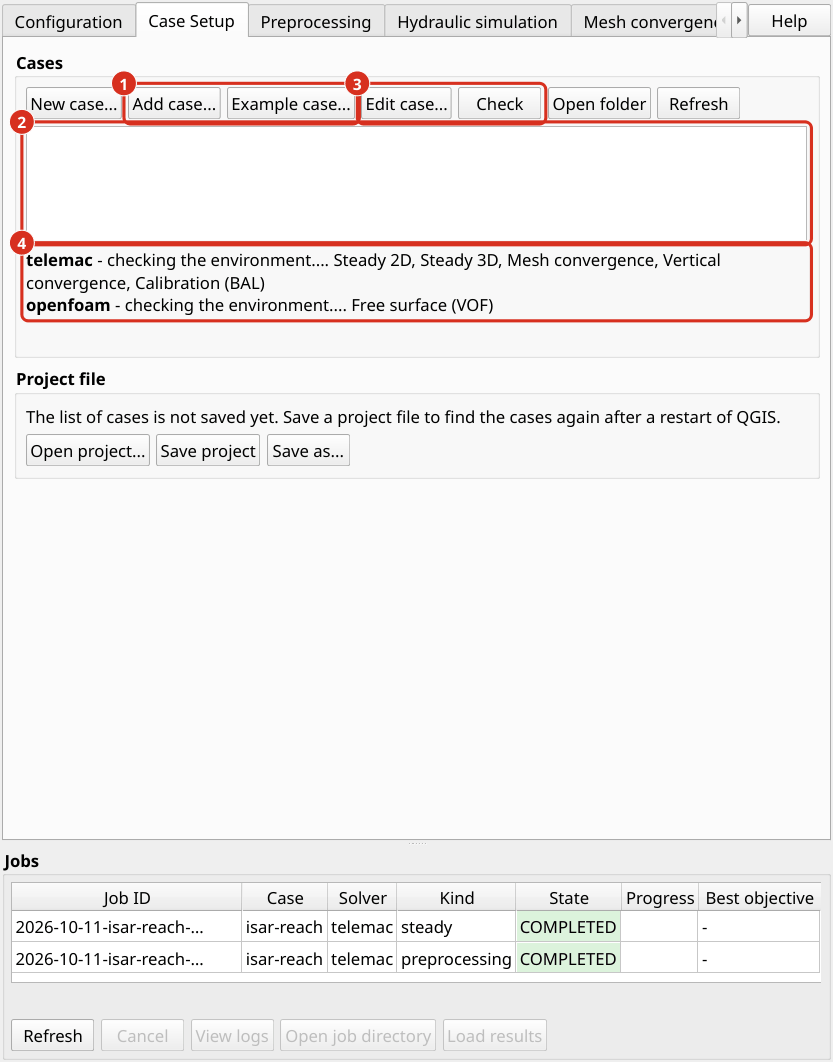
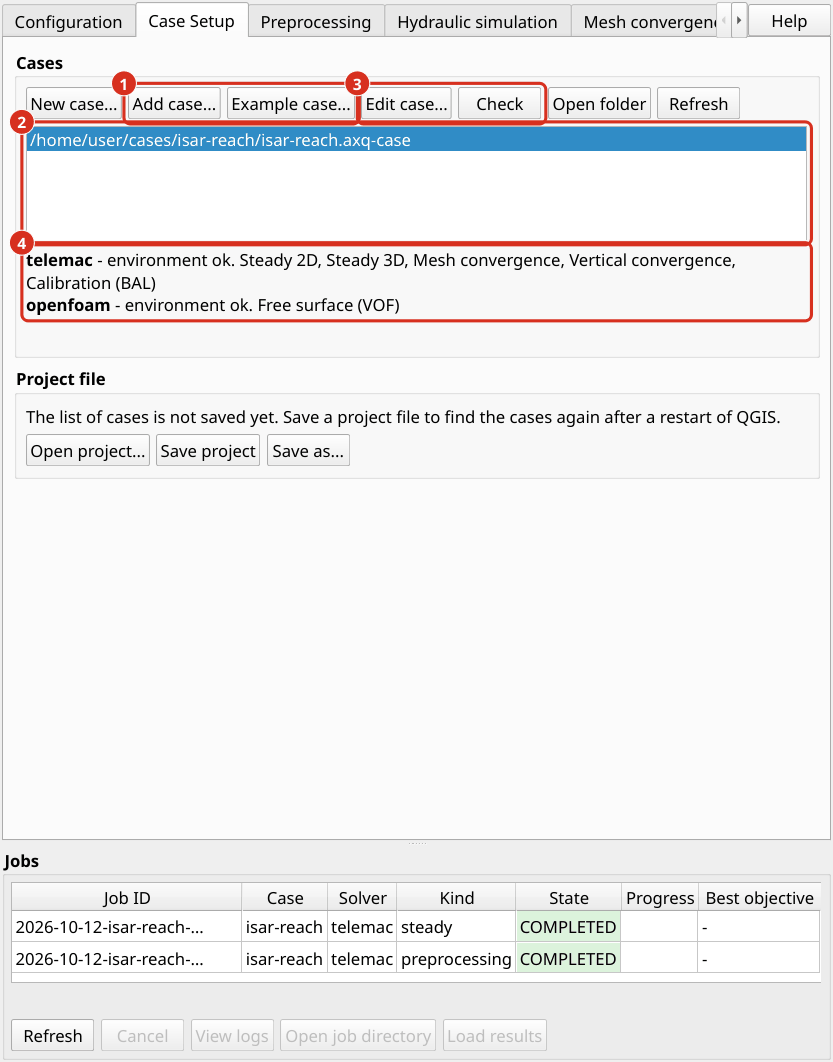
Take the pictures as the panel shows them, with made-up data
What the review of 2026-10-12 found in the pictures of the plugin
and in the script that takes them.

The picture of the Case Setup tab showed an empty list of cases and
"checking the environment...": the script added the case behind the
panel's back and did not wait for the check. The profile editor
picture showed a folder of the computer in the gray text of an empty
row, which the replacement of folders had left out. A mark whose
widget was not on the screen was dropped and the others renumbered,
so a caption could explain numbers the picture did not have. The
picture of the QGIS window needed an environment variable the
documented command does not set, and the script ended with success
whatever had failed.

The script now adds the case as "Add case..." does and waits for the
check, replaces placeholder texts too, loads the result the way "Load
results" does, fails for a figure with a mark that is not on the
screen and ends with an error then, and records the marks of each
figure in docs/img/gui-screenshots.json. The test compares that
record with the captions.

The picture of the Calibration & validation tab showed the name, a
file name and the discharges of the September campaign of the Isar,
whose positions are being corrected and of which nothing is to be
published. All pictures are taken again with made-up points on the
channel centerline of the published example and a made-up validation
situation.
[…]

Changed region(s): [[0.0312, 0.0932, 0.9676, 0.1554], [0.0312, 0.2175, 0.8739, 0.3107]]

diff --git a/scripts/build_screenshots.py b/scripts/build_screenshots.py
@@ -9,9 +9,13 @@ command when the plugin changes::
 
     python scripts/build_screenshots.py --case <folder>/<name>.axq-case
 
-The case has to be built and to have a steady result, so that the tabs show what a
-user sees while working: the job list with its jobs, the checkup table, the results.
-A case with the blocks ``calibration`` and ``openfoam`` shows those boxes filled.
+The case has to be built and to have a completed steady job, so that the tabs show
+what a user sees while working: the job list with its jobs, the checkup table, the
+results. A case with the blocks ``calibration`` and ``openfoam`` shows those boxes
+filled. The script fails, and says which figure, when a widget that a caption explains
+is not on the screen: a figure whose numbers no longer match its caption is worse than
+none. How many marks each figure has is recorded in ``gui-screenshots.json`` beside
+the figures, which a test compares with the captions.
 
 QGIS is started through ``scripts/qgis_dev.sh`` (the QGIS of the conda environment
 ``qgis-dev``) with a QGIS profile of its own in a temporary folder, so no profile of
@@ -56,11 +60,11 @@ def take_screenshots() -> None:
     out = Path(os.environ["AXQUA_SHOTS_OUT"])
     case = Path(os.environ["AXQUA_SHOTS_CASE"])
     out.mkdir(parents=True, exist_ok=True)
-    report: dict = {"figures": {}, "notes": []}
+    report: dict = {"figures": {}, "failed": {}}
 
     def save_report() -> None:
-        (out / "gui-screenshots.json").write_text(json.dumps(report, indent=1),
-                                                  encoding="utf-8")
+        (out / ".gui-screenshots-run.json").write_text(json.dumps(report, indent=1),
+                                                       encoding="utf-8")
 
     def wait(ms: int) -> None:
         loop = QEventLoop()
@@ -120,6 +124,9 @@ def take_screenshots() -> None:
                 child.setText(said(child.text()))
                 if isinstance(child, QLineEdit):
                     child.setCursorPosition(0)
+        for child in root.findChildren(QLineEdit):       # the gray text of an empty row
+            if said(child.placeholderText()) != child.placeholderText():
+                child.setPlaceholderText(said(child.placeholderText()))
         for child in root.findChildren(QPlainTextEdit):
             if said(child.toPlainText()) != child.toPlainText():
                 child.setPlainText(said(child.toPlainText()))
@@ -137,8 +144,11 @@ def take_screenshots() -> None:
         """Save a picture of *root* with the *marks* framed and numbered."""
         neutralize(root)
         wait(500)
-        marks = [mark for mark in marks if isinstance(mark, (QRect, list, tuple))
-                 or not mark.visibleRegion().isEmpty()]
+        for number, mark in enumerate(marks, start=1):
+            for widget in (mark if isinstance(mark, (list, tuple)) else [mark]):
+                if not isinstance(widget, QRect) and widget.visibleRegion().isEmpty():
+                    # the caption would explain a number the picture does not have
+                    raise LookupError(f"mark {number} of {name} is not on the screen")
         pixmap = root.grab()
         painter = QPainter(pixmap)
         painter.setRenderHint(enum_value(QPainter, "RenderHint.Antialiasing",
@@ -148,11 +158,13 @@ def take_screenshots() -> None:
         font.setPixelSize(15)
         painter.setFont(font)
         limits = pixmap.rect().adjusted(2, 2, -2, -2)
-        for number, target in enumerate(marks, start=1):
-            rect = box_of(root, target).adjusted(-4, -4, 4, 4).intersected(limits)
+        frames = [box_of(root, target).adjusted(-4, -4, 4, 4).intersected(limits)
+                  for target in marks]
+        for rect in frames:                               # all frames first ...
             painter.setPen(QPen(QColor(MARK), 3))
             painter.setBrush(QColor(0, 0, 0, 0))
             painter.drawRoundedRect(rect, 6, 6)
+        for number, rect in enumerate(frames, start=1):   # ... so no number is covered
             badge = QRect(max(rect.left() - 12, 2), max(rect.top() - 12, 2), 24, 24)
             painter.setPen(QPen(QColor("white"), 1))
             painter.setBrush(QColor(MARK))
@@ -169,7 +181,7 @@ def take_screenshots() -> None:
         try:
             action()
         except Exception:                                # noqa: BLE001
-            report["notes"].append(f"{name}: {traceback.format_exc(limit=3)}")
+            report["failed"][name] = traceback.format_exc(limit=3)
             save_report()
 
     def buttons(root, *texts):
@@ -181,12 +193,13 @@ def take_screenshots() -> None:
     dock.resize(*PANEL)
     dock.show()
     tab = dock.configuration_tab
-    until(lambda: "axqua 0." in tab.runner_label.text(), 90)
+    until(lambda: "axqua " in tab.runner_label.text(), 90)
     until(lambda: tab.profile is not None, 60)
     until(lambda: bool(tab.overview.get("targets")), 90)
-    dock.ctx.project.add_case(case)
+    dock.add_case(case)                    # as *Add case...* does: the list is filled
     dock.set_active_case(str(case))
     until(lambda: dock.ctx.case_view is not None, 90)
+    until(lambda: "checking" not in dock.case_tab.capability_label.text(), 120)
     dock.jobs_tab.refresh()
     until(lambda: dock.jobs_tab.table.rowCount() > 0, 30)
     wait(1500)
@@ -347,15 +360,16 @@ def take_screenshots() -> None:
 
     # ---- the panel in QGIS, with a result on the map -----------------------------
     def window() -> None:
-        from axqua.core import result_loader
+        from qgis.core import QgsMeshLayer, QgsProject
 
-        rows = dock.jobs_tab.table
-        root = None
-        for folder in sorted(Path(os.environ["AXQUA_JOB_ROOT"]).iterdir()):
-            if "steady" in folder.name:
-                root = folder
-        results = result_loader.discover(root)
-        layers = result_loader.ResultLoader(min_depth=0.01, velocity_cap=5.0).load(results)
+        def loaded() -> list:
+            return [layer for layer in QgsProject.instance().mapLayers().values()
+                    if isinstance(layer, QgsMeshLayer)]
+
+        dock.load_latest_results("steady")        # what *Load results* does
+        if not until(lambda: len(loaded()) >= 2, 120):
+            raise LookupError("the steady result of the case did not load")
+        layers = loaded()
         depth = next(layer for layer in layers if "velocity" not in layer.name().lower()
                      and "geometry" not in layer.name().lower())
         for layer in layers:                              # the depth alone, with lines
@@ -366,8 +380,6 @@ def take_screenshots() -> None:
         dock.show_section("postprocessing", "qgis")
         page = dock.page("postprocessing", "qgis")
         page.apply_style()
-        # what "Load results" does in the plugin: the end of the run, not its start
-        result_loader.show_last_time_step(iface.mapCanvas(), layers)
         iface.messageBar().clearWidgets()
         main = iface.mainWindow()
         dock.setFloating(False)
@@ -383,7 +395,6 @@ def take_screenshots() -> None:
         shot(main, "gui-qgis-window", [dock, canvas, page.style_button])
         canvas.grab().save(str(out / "gui-map-streamlines.png"))
         report["figures"]["gui-map-streamlines"] = 0
-        report["notes"].append(f"job rows: {rows.rowCount()}")
         save_report()
 
     for name, action in (("configuration", configuration),
@@ -440,7 +451,7 @@ def main(argv: list[str] | None = None) -> int:
         env = dict(os.environ, QGIS_CUSTOM_CONFIG_PATH=scratch, QGIS_PROFILE="shots",
                    QT_QPA_PLATFORM="offscreen", AXQUA_SHOTS_CASE=str(args.case.resolve()),
                    AXQUA_SHOTS_OUT=str(args.out.resolve()))
-        report = args.out / "gui-screenshots.json"
+        report = args.out / ".gui-screenshots-run.json"
         report.unlink(missing_ok=True)
         try:
             subprocess.run([str(repo / "scripts" / "qgis_dev.sh"), "--nologo",
@@ -453,20 +464,27 @@ def main(argv: list[str] | None = None) -> int:
         print("QGIS wrote no report; the plugin may not have loaded.", file=sys.stderr)
         return 1
     done = json.loads(report.read_text(encoding="utf-8"))
-    report.unlink()                                     # a record of the run, not a figure
-    for note in done.get("notes", []):
-        print("note:", note.strip().splitlines()[-1] if "\n" in note else note)
+    report.unlink()
+    for name, why in done.get("failed", {}).items():
+        print(f"FAILED {name}: {why.strip().splitlines()[-1]}", file=sys.stderr)
     reduce_colors(args.out, sorted(done.get("figures", {})))
+    # the marks of each figure, for the test that compares them with the captions
+    marks = args.out / "gui-screenshots.json"
+    known = json.loads(marks.read_text(encoding="utf-8")) if marks.is_file() else {}
+    known.update(done.get("figures", {}))
+    marks.write_text(json.dumps(dict(sorted(known.items())), indent=1) + "\n",
+                     encoding="utf-8")
     print(f"{len(done.get('figures', {}))} figures in {args.out}")
-    return 0 if done.get("done") else 1
+    return 0 if done.get("done") and not done.get("failed") else 1
 
 
 if inside_qgis():
     try:
         take_screenshots()
     except Exception:                                    # noqa: BLE001 - never hang QGIS
-        Path(os.environ.get("AXQUA_SHOTS_OUT", "."), "gui-screenshots.json").write_text(
-            json.dumps({"figures": {}, "notes": [traceback.format_exc()]}),
+        Path(os.environ.get("AXQUA_SHOTS_OUT", "."),
+             ".gui-screenshots-run.json").write_text(
+            json.dumps({"figures": {}, "failed": {"start": traceback.format_exc()}}),
             encoding="utf-8")
         os._exit(1)
 elif __name__ == "__main__":

diff --git a/tests/test_docs_outline.py b/tests/test_docs_outline.py
@@ -190,8 +190,12 @@ SCREENSHOTS = {
 
 def test_every_step_of_the_workflow_shows_where_it_is_set_up_in_the_plugin():
     """The pictures are taken by ``scripts/build_screenshots.py`` and numbered; the
-    caption of each explains its numbers. A picture nobody shows, or a page that lost
-    its picture, is noticed here."""
+    caption of each explains its numbers. A picture nobody shows, a page that lost its
+    picture, and a caption that explains another number of marks than its picture has
+    (the script records them in ``gui-screenshots.json``) are noticed here."""
+    import json
+
+    marks = json.loads((DOCS / "img" / "gui-screenshots.json").read_text(encoding="utf-8"))
     shown = []
     for document, names in SCREENSHOTS.items():
         text = (DOCS / f"{document}.rst").read_text(encoding="utf-8")
@@ -204,11 +208,12 @@ def test_every_step_of_the_workflow_shows_where_it_is_set_up_in_the_plugin():
             options, caption = block[0], block[1]
             assert ":alt:" in options and caption.startswith("   "), name
             numbers = re.findall(r"\((\d)\)", caption)
-            # a caption counts its marks from 1 without a gap
+            # a caption counts its marks from 1 without a gap, as many as the picture has
             assert numbers == [str(n) for n in range(1, len(numbers) + 1)], name
+            assert len(numbers) == marks[name], name
         shown += names
     on_disk = sorted(path.stem for path in (DOCS / "img").glob("gui-*.png"))
-    assert on_disk == sorted(shown)
+    assert on_disk == sorted(shown) == sorted(marks)
 
 
 def test_the_sections_stand_out_in_the_menu():

diff --git a/docs/code/build-docs.rst b/docs/code/build-docs.rst
@@ -17,5 +17,5 @@ Rules for the structure
 * Each subsection is one file. Subsubsections are headings within that file.
 * The navigation menu shows the sections, which are set in bold capital letters. The subsections of a section are folded. They open when the section is opened with its fold button or when one of its pages is shown, and the subsubsections of a subsection open in the same way. This behavior is defined by ``html_theme_options`` in ``docs/conf.py`` and by ``docs/_static/axqua.css``.
 * Labels that start with ``help-`` mark the targets that the plugin opens from its tabs. Keep them when a page is reorganized.
-* The screenshots of the plugin (``docs/img/gui-*.png``) are taken by ``python scripts/build_screenshots.py --case <case-file>``, which starts QGIS without a window, frames and numbers the places that a caption explains, and replaces the folders of the computer by neutral ones. The case has to be built and to have a steady result. Run the script again after a change to the plugin that a picture shows.
+* The screenshots of the plugin (``docs/img/gui-*.png``) are taken by ``python scripts/build_screenshots.py --case <case-file>``, which starts QGIS without a window, frames and numbers the places that a caption explains, and replaces the folders of the computer by neutral ones. The case has to be built and to have a completed steady job. The script ends with an error and names the figure if a place that a caption explains is not on the screen, and it records the number of marks of each figure in ``docs/img/gui-screenshots.json``, which the test compares with the captions. Run the script again after a change to the plugin that a picture shows.
 * The UML diagrams (``docs/img/uml-*.svg``) are generated from the source code with ``python scripts/build_uml.py``, which requires `Graphviz <https://graphviz.org>`_. The same test fails if a diagram no longer agrees with the code. Run the script again in that case.
